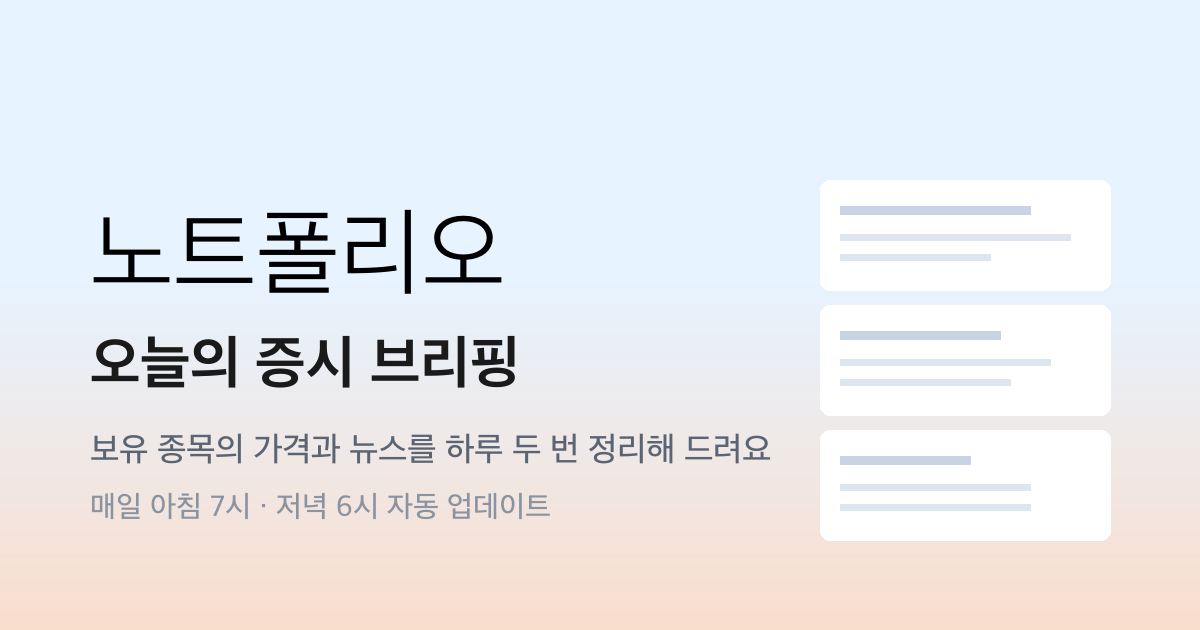
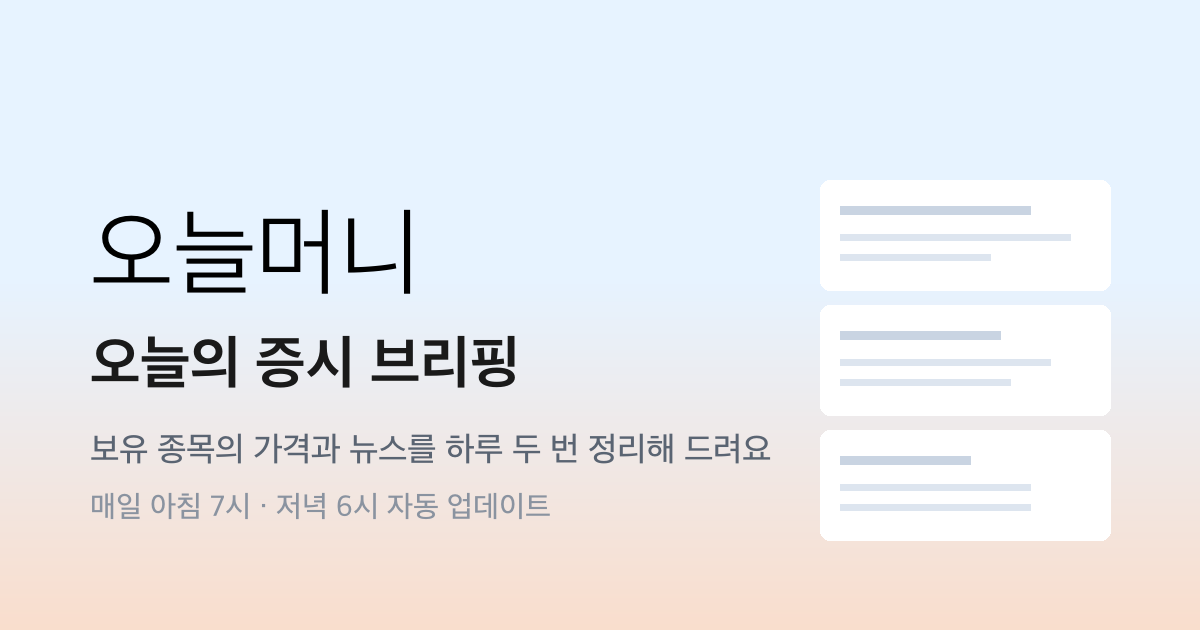
서비스 이름을 오늘머니로 통일
제목·og:title·홈화면 이름·manifest·미리보기 이미지에 남아 있던
'노트폴리오'를 모두 교체. 설명 문구는 그대로 둔다.

diff --git a/index.html b/index.html
@@ -3,15 +3,15 @@
 <head>
 <meta charset="UTF-8" />
 <meta name="viewport" content="width=device-width, initial-scale=1, viewport-fit=cover, user-scalable=no" />
-<title>노트폴리오 — 오늘의 증시 브리핑</title>
+<title>오늘머니 - 오늘의 증시 브리핑</title>
 
 <!-- 링크 미리보기(카카오톡·슬랙·문자 등)에 뜨는 내용.
      이게 없으면 카카오톡이 "여기를 눌러 링크를 확인하세요."로 채운다.
      문구를 바꾸려면 아래 description / og:description 두 곳을 같이 고친다. -->
 <meta name="description" content="보유 종목의 가격과 뉴스를 하루 두 번 정리해 드려요. 매일 아침 7시, 저녁 6시 자동 업데이트." />
 <meta property="og:type" content="website" />
-<meta property="og:site_name" content="노트폴리오" />
-<meta property="og:title" content="노트폴리오 — 오늘의 증시 브리핑" />
+<meta property="og:site_name" content="오늘머니" />
+<meta property="og:title" content="오늘머니 - 오늘의 증시 브리핑" />
 <meta property="og:description" content="보유 종목의 가격과 뉴스를 하루 두 번 정리해 드려요. 매일 아침 7시, 저녁 6시 자동 업데이트." />
 <meta property="og:url" content="https://oneulmoney.vercel.app/" />
 <meta property="og:image" content="https://oneulmoney.vercel.app/assets/og-image.png" />
@@ -23,7 +23,7 @@
      브라우저 UI가 세로를 200px 넘게 먹어서 프레임이 축소되던 문제를 없앤다. -->
 <meta name="apple-mobile-web-app-capable" content="yes" />
 <meta name="apple-mobile-web-app-status-bar-style" content="default" />
-<meta name="apple-mobile-web-app-title" content="노트폴리오" />
+<meta name="apple-mobile-web-app-title" content="오늘머니" />
 <meta name="theme-color" content="#e7f3ff" />
 <link rel="manifest" href="manifest.webmanifest" />
 <link rel="apple-touch-icon" href="assets/logo.svg" />
